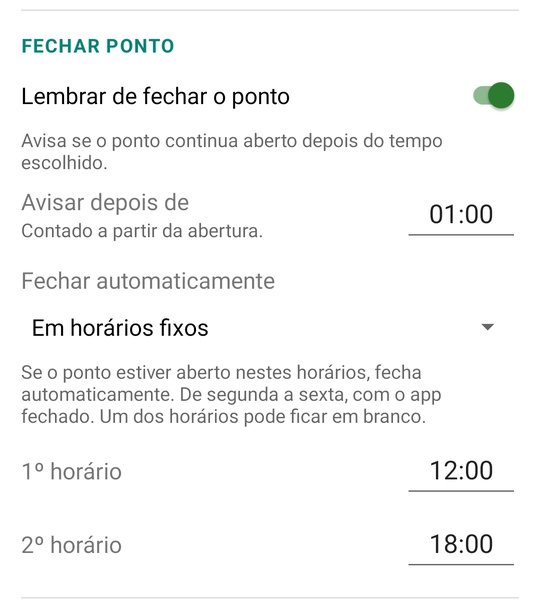
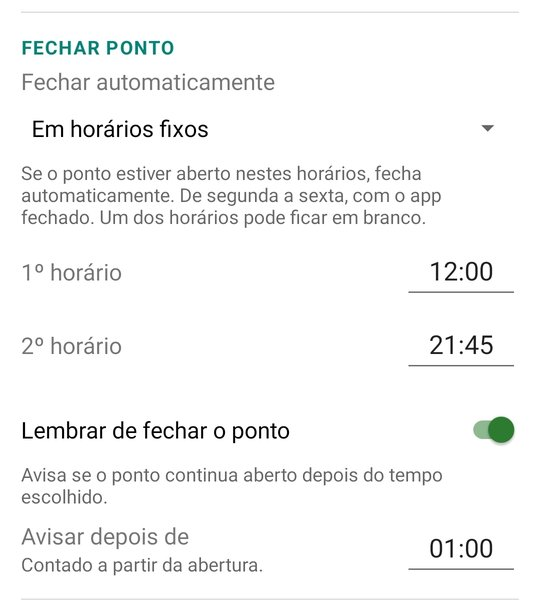
Site: captura nova da seção Fechar ponto, na ordem nova
Claude-Session: https://claude.ai/code/session_01XFWY4GunQ6LupJF6hF3WKn

diff --git a/docs/index.html b/docs/index.html
@@ -176,7 +176,7 @@
 
     <div class="sub">
       <h3>Fechar ponto</h3>
-      <figure><img src="img/configuracoes-fechar.jpg" alt="Seção Fechar ponto das Configurações, com o fechamento automático em horários fixos e o lembrete" loading="lazy" width="540" height="608"></figure>
+      <figure><img src="img/configuracoes-fechar.jpg" alt="Seção Fechar ponto das Configurações, com o fechamento automático em horários fixos e o lembrete" loading="lazy" width="540" height="613"></figure>
       <ul>
         <li><strong>Fechar automaticamente</strong> fecha o ponto sozinho, mesmo com o app fechado, se ele estiver aberto nos horários escolhidos, de segunda a sexta. Em <strong>Em horários fixos</strong>, são os mesmos dois horários todo dia (padrão 12:00 e 18:00; um pode ficar em branco).</li>
         <li><strong>Lembrar de fechar o ponto</strong> avisa com uma notificação, mesmo com o app fechado, se o ponto foi aberto e não foi fechado no tempo escolhido em <strong>Avisar depois de</strong> (padrão 01:00, até 06:00). O aviso pode chegar alguns minutos depois com o celular em repouso. Se o celular for reiniciado, o lembrete continua valendo.</li>
